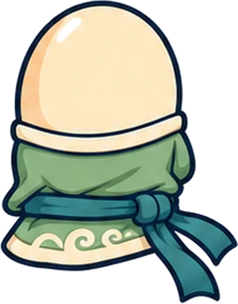
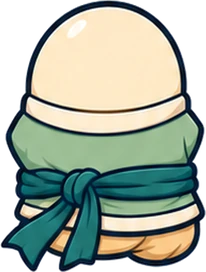
The Monk redesigned: round bean, proper arms, open guard (#598)
The owner's redrawn Monk (sheets MK-a, MK-b and MK-c) replaces the first
design's files one for one: the portrait, the six rig parts and the 18
animation parts. Cut as the first Monk was (no sticker border, 6 px per game
unit, feet on the ground at y = 15, the hero 53 units tall).

Everything is re-measured for the new shape: PLACED.monk, SHOULDER.monk,
OFF_SHOULDER.monk (now the back arm's own shoulder) and the ANIM_ART entry,
with the off-hand follow-through drawn at 0.82 (it was painted larger than
the rest of the sheet). The life-skill arms hang from the new shoulders and
the sleeve colour matches the new jacket.

Drawing fixes for the new open guard:
- the glove shows only when monk gloves are worn; without them the back hand
  is the bare painted hand, and it throws its own cross;
- through the coil the rig's own glove arm draws back to the hip (the
  painted wind-up sat hidden behind the round body);
- the palm swings across and is driven out over the knuckled arm, whose fist
  is chambered at the hip meanwhile, so the glove no longer lands on the
  knuckles at the end of the strike;
- the back view's feet stand as wide apart as the front view's (backFeet).

Claude-Session: https://claude.ai/code/session_019kevwHHi9fDprq4oAiuq6N

diff --git a/src/render/heroRig.js b/src/render/heroRig.js
@@ -13,8 +13,10 @@ export const HERO_RIG_CLASSES = ['swordsman', 'rogue', 'samurai', 'corsair', 'pa
 // arm as [shoulder x, y, w, h, pivot x, y], turning about its shoulder (the
 // pivot inside the picture). All in game units, feet on the ground at y = 15.
 const PLACED = {
-  monk: { body: [-19.3, -38, 38.6, 47.4], left: [-20.9, 2.2, 10.3, 12.8], right: [-0.8, 1.7, 10.9, 13.3],
-    sword: [10.1, -12.8, 15.3, 17.8, 3.2, 14.2], back: [-17.5, -13.6, 15.9, 15.8, 12.7, 12.2], strike: [9.9, -12.8, 21.3, 9.3, 3.5, 4.9] },
+  // (Redrawn on sheet MK-a: a round bean with its arms on its sides, the
+  // knuckled fist forward at the waist and the gloved palm out at the hip.)
+  monk: { body: [-19, -38, 38.1, 46], left: [-17.5, 1.2, 12.6, 13.8], right: [4.4, 1.2, 13, 13.8],
+    sword: [12.4, -10.8, 20.7, 15.3, 3.4, 4.8], back: [-10.1, -10.8, 23.7, 15, 19.6, 6.8], strike: [13.5, -12.2, 23.2, 10.4, 3.8, 4.3] },
 };
 // Heavier weapons commit later; spears extend forward and whips sweep wider.
 const ATTACKS = {
@@ -43,9 +45,9 @@ const GRIP = {
 };
 // Where the weapon arm's shoulder is (the painted attack arms hang from it),
 // and the off hand's for the dual wielders' second set.
-const SHOULDER = { rogue: [15, -8], brawler: [14, -9], monk: [10.1, -12.8] };
-// (The Monk's palm strikes from nearer the middle, so the thrust carries past the body.)
-const OFF_SHOULDER = { corsair: [-9, -10], rogue: [-11, -9], monk: [-8, -8] };
+const SHOULDER = { rogue: [15, -8], brawler: [14, -9], monk: [12.4, -10.8] };
+// (The Monk's palm strikes from its own back shoulder, so the thrust carries across the body.)
+const OFF_SHOULDER = { corsair: [-9, -10], rogue: [-11, -9], monk: [-10.1, -10.8] };
 const images = new Map();
 // Limb angles and reach ease across a restarted swing (see poseBlend.js).
 const blendRig = poseBlender();
@@ -210,7 +212,14 @@ export function drawHeroRig(ctx, opts = {}) {
   const mk = combat && !anim.trail ? 'flourish' : 'melee';
   // A two-handed grip keeps the turning arm, so the back hand stays on the handle.
   const frame = combat && !grip && opts.hasWeapon !== false && hasSwingArt(classId) ? swingPhase(anim.ch, 'main', mk) : null;
-  const offFrame = combat && OFF_SHOULDER[classId] && (classId !== 'corsair' || corsairPair) && hasSwingArt(classId, 'off') ? swingPhase(anim.ch, 'off') : null;
+  // The Monk's back hand wears its glove only when monk gloves are worn (the
+  // renderer says so; the title's and the reflection's heroes keep the glove).
+  const monk = classId === 'monk';
+  const bareBack = monk && opts.dualWield === false && opts.hasShield === false;
+  let offFrame = combat && OFF_SHOULDER[classId] && (classId !== 'corsair' || corsairPair) && !bareBack && hasSwingArt(classId, 'off') ? swingPhase(anim.ch, 'off') : null;
+  // The Monk's painted palm wind-up hides behind the body, so through the
+  // coil its own rig arm draws the glove back beside the hip instead.
+  if (monk && offFrame === 'wind') offFrame = null;
   // Either side of its painted pictures (a clip's arc) an arm rests in the
   // rig's own guard, never a half-faded extended drawing as it comes back.
   if (combat && !grip && anim.ch.paint) {
@@ -224,11 +233,19 @@ export function drawHeroRig(ctx, opts = {}) {
   if (anim && !backFront) drawHeroArm(ctx, anim, 'back', -11 + pose.breathe);
   // A painted off arm (the Corsair's second scimitar, the Rogue's second
   // dagger) stays behind the body, clear of the face, except while it cuts.
-  // The Monk's gloved palm has no blade to keep clear of the face: it is held
-  // up before the chest and driven out in front of the body the whole way.
-  const offFront = !!offFrame && (classId === 'monk' || offArmInFront(anim.ch));
-  // Its thrust passes in front of the raised fist too.
-  const offLast = offFront && classId === 'monk' && offArmInFront(anim.ch);
+  // The Monk's gloved palm has no blade to keep clear of the face: it swings
+  // across the front of the body and is driven out in front of it.
+  const offFront = !!offFrame && (monk || offArmInFront(anim.ch));
+  // It passes in front of the knuckled arm too, whose fist is pulled down to
+  // the hip meanwhile (chambered) and comes back up only once the palm has
+  // drawn back, so the glove never lands on the knuckles.
+  const offLast = offFront && monk;
+  const arc2 = monk && combat && !bareBack ? anim.ch.arc2 || 0 : 0;
+  const chamber = arc2 > 1 ? (arc2 <= 3.2 ? smoothstep(arc2 - 1) : 1 - smoothstep((arc2 - 3.2) / 0.4)) : 0;
+  // A bare back hand hangs out at the side, coils back and, on its cross,
+  // punches forward over the body.
+  const bareCross = bareBack && combat && (anim.ch.strike2 || 0) > 0.3;
+  const bareArm = () => faded(ctx, arms, () => drawEmptyArm(ctx, classId, placed.back[0], placed.back[1] + pose.breathe, -1.15 - pose.back * 1.6 - pose.step * 0.3, 13));
   const offArm = () => drawSwingArm(ctx, classId, anim, 'off', 'melee', osh[0] + (pose.reach2 || 0) * 0.4, osh[1] + pose.breathe, arms);
   if (offFrame && !offFront) offArm();
   else if (offFrame) { /* drawn over the body, below */ }
@@ -240,8 +257,10 @@ export function drawHeroRig(ctx, opts = {}) {
     drawIf('sword', -9, -10 + pose.breathe, 21, 38, -pose.back * 0.8 - 0.55, 21 * 0.83, 38 * 0.88, (1 - shown2) * arms);
     drawIf('strike', -7 + (pose.reach2 || 0), -12 + pose.breathe, 37, 13, (-pose.back - 1.5) * 0.25, 4, 5, shown2 * arms);
   }
+  // A bare back hand out at the side (over the body on its cross, below).
+  else if (bareBack) { if (!bareCross) bareArm(); }
   // A placed rig's back arm turns about its own shoulder, behind the body (the
-  // Monk's glove is raised beside the head, so it coils outward, not over it).
+  // Monk's glove, held out at the hip, coils back and down beside it).
   else if (placed) { const b = placed.back; draw('back', b[0], b[1] + pose.breathe, b[2], b[3], -pose.back, b[4], b[5], arms); }
   // The Ninja and Merchant are slimmer, so their back hand sits closer in, half behind the body.
   // On a two-handed grip the back hand is on the handle instead (drawn below).
@@ -252,6 +271,7 @@ export function drawHeroRig(ctx, opts = {}) {
   // The Rogue's and the Brawler's back hands hold their own dagger and claw,
   // in front of the tunic; on an off-hand strike that arm swaps for its
   // extended drawing, lunging forward across the body.
+  if (bareCross) bareArm();
   if (offFront && !offLast) offArm();
   else if (rogue && !offFrame) {
     draw('back', -14, -9 + pose.breathe, 22, 18, pose.back, 18, 3, (1 - shown2) * arms);
@@ -277,7 +297,7 @@ export function drawHeroRig(ctx, opts = {}) {
     draw('strike', 14 + pose.reach, -9 + pose.breathe, 27, 12, 0, 4, 4, shown * arms);
   } else if (placed) {
     const a = placed.sword, k = placed.strike;
-    draw('sword', a[0], a[1] + pose.breathe, a[2], a[3], pose.sword, a[4], a[5], (1 - shown) * arms);
+    draw('sword', a[0], a[1] + pose.breathe, a[2], a[3], pose.sword + chamber * 0.9, a[4], a[5], (1 - shown) * arms);
     draw('strike', k[0] + reach, k[1] + pose.breathe, k[2], k[3], (pose.sword - 0.8) * 0.3, k[4], k[5], shown * arms);
   } else {
     draw('sword', 11, y, w, h, sa, spx, spy, (1 - shown) * arms);
@@ -288,6 +308,9 @@ export function drawHeroRig(ctx, opts = {}) {
   return true;
 }
 
+/** fn() drawn at opacity a (on top of the canvas's own). */
+function faded(ctx, a, fn) { ctx.save(); ctx.globalAlpha *= a; const r = fn(); ctx.restore(); return r; }
+const smoothstep = (x) => { x = Math.max(0, Math.min(1, x)); return x * x * (3 - 2 * x); };
 /** Where a point (fx, fy across a picture) lands once the picture is drawn at
  *  x, y, w x h, turned by angle about its pivot px, py. */
 function partPoint(fx, fy, [x, y, w, h, angle, px, py]) {

diff --git a/src/render/heroAnimArt.js b/src/render/heroAnimArt.js
@@ -14,7 +14,9 @@
 // the shoulder (the pivot) inside it; a back-view part is [x, y, w, h] from
 // the hero's feet (the off arm, which hangs from its shoulder, is [shoulder
 // x, y, w, h, then the shoulder and the fist in the picture]); a hand is
-// [w, h, shoulder x, y, fist x, y].
+// [w, h, shoulder x, y, fist x, y]. A class may say where its back view's
+// feet stand (`backFeet`: [left x, right x, width]); otherwise they sit where
+// most heroes' do.
 // Without Image (headless tests) nothing loads and every helper returns
 // false or null, so the rigs draw exactly as before; a set is only used once
 // all of its pictures have loaded, never half assembled. Each is drawn with
@@ -44,8 +46,8 @@ export const ANIM_ART = {
   sorcerer: { faces: ['body', 'hurt', 'blink', 'victory'], swing: { wind: [28, 31, 4.5, 26.7], mid: [36.3, 25.3, 4.2, 19.6], follow: [41.5, 19.3, 4.4, 13.1] }, back: { body: [-16.8, -36.6, 33.3, 39.8], other: [-13.9, -35.2, 22, 19.2, 2.3, 3.3, 17.7, 12.2], arm: [0.5, -39.8, 22.2, 40.7], strike: [-18, -43.4, 36, 30.7] }, hand: [11.7, 11.8, 1.7, 1.7, 8.9, 10] },
   pistoler: { faces: ['body', 'hurt', 'blink', 'victory'], swing: { wind: [19.3, 19.8, 2.9, 16.9], mid: [24.5, 12.5, 2.5, 9.2], follow: [24.5, 17, 2.8, 13.8] }, back: { body: [-11.7, -37.6, 23.2, 43.2], arm: [-8.3, -25.9, 25, 31.2], strike: [-35.3, -11.9, 35.3, 18.5] }, hand: [10.3, 12.5, 2, 1.5, 7.9, 10.8] },
   sniper: { faces: ['body', 'hurt', 'blink', 'victory'], swing: { wind: [31.5, 26.7, 3.8, 21.8], mid: [34.8, 14.3, 4.1, 9.1], follow: [36.5, 24.5, 4.3, 19] }, back: { body: [-11.9, -37.6, 23.7, 43.2], other: [-3.3, -10.5, 18.3, 14.3, 1.7, 4.1, 16, 7.7], arm: [-29.5, -21.2, 36.7, 18], strike: [-37, -21.2, 45, 18] }, hand: [10.8, 12.3, 1.9, 1.6, 8.3, 10.6] },
-  // The Monk, Priest and Zealot (art pack 2-New-Classes, sheets H7b/H7c, H8b and H9b).
-  monk: { faces: ['body', 'hurt', 'blink', 'victory'], swing: { wind: [16.4, 14.3, 4.1, 3.3], mid: [19.9, 11.7, 3.4, 7.4], follow: [21.6, 8.8, 3.6, 4.8] }, off: { wind: [16.4, 15.5, 3.8, 3.6], mid: [20, 13.8, 3.4, 8.3], follow: [24.4, 14.4, 4.1, 9.6] }, back: { body: [-19.9, -41.5, 39.7, 50.6], other: [-17.5, -13.6, 20, 18.3, 15.3, 4.1, 4.4, 13.8], arm: [9.2, -26.7, 15.3, 15.7], strike: [8.8, -19.3, 18.2, 11.3] }, hand: [18.7, 11.8, 3, 6.5, 15.4, 4.6] },
+  // The Monk (redrawn, sheets MK-b and MK-c), Priest and Zealot (art pack 2-New-Classes, sheets H8b and H9b).
+  monk: { faces: ['body', 'hurt', 'blink', 'victory'], swing: { wind: [14.2, 13.9, 4, 3.2], mid: [17.9, 11.6, 2.9, 4.4], follow: [23.3, 13.9, 3.9, 4.6] }, off: { wind: [18.5, 17, 3.9, 3.6], mid: [22.4, 15.7, 3.7, 8], follow: [31, 13, 5.2, 7.4] }, back: { body: [-17.2, -37.7, 34.4, 45.4], other: [-14.4, -14.3, 17.5, 19.5, 13.4, 4, 4.7, 15.2], arm: [9.6, -16.5, 17.9, 13], strike: [8.8, -19.8, 23.6, 12.7] }, backFeet: [-16.8, 4.3, 13], hand: [19, 14.6, 3.7, 3.6, 15.7, 8.7] },
   priest: { faces: ['body', 'hurt', 'blink', 'victory'], swing: { wind: [18.6, 24.5, 3.2, 17.3], mid: [19.7, 21.2, 3.3, 13], follow: [22.7, 19.7, 3.8, 10] }, back: { body: [-19.2, -39.7, 38.4, 49.9], other: [-9.4, -8, 15.7, 17.7, 12.2, 3.3, 3.7, 12.4], arm: [10.5, -26.7, 16.1, 18.1], strike: [10.7, -25.1, 19.9, 17.8] }, hand: [18, 16, 3.1, 6.8, 14.8, 3] },
   zealot: { faces: ['body', 'hurt', 'blink', 'victory'], swing: { wind: [19.6, 16.9, 3.2, 10.2], mid: [21.4, 18.3, 3.5, 6], follow: [24.2, 10.5, 4, 5.9] }, back: { body: [-16.9, -41.4, 33.9, 51.4], other: [-9.9, -8.6, 14.4, 18.4, 10.8, 3.6, 3.5, 14.8], arm: [11.5, -22, 20.8, 22.8], strike: [11.4, -14.9, 22.6, 9] }, hand: [17.1, 15.3, 3.4, 10.5, 14.1, 4.2] },
 };
@@ -220,7 +222,8 @@ const wrap = (a) => a - Math.PI * 2 * Math.round(a / (Math.PI * 2));
 // The wind-ups are painted raised over the head, so they are tipped forward too:
 // the guard and fist sit above the hat or hood rather than over the eyes.
 const CLEAR = { corsair: { wind: 0.5, mid: 0.35 }, rogue: { wind: 0.55, mid: 0.15 } };
-const CLEAR_OFF = { corsair: { mid: 0.2 } };
+// (The Monk's palm, fingers up, dips a little below the cheek as it crosses the chest.)
+const CLEAR_OFF = { corsair: { mid: 0.2 }, monk: { mid: -0.2 } };
 /** The direction the weapon points at picture-walk position a (1..3). */
 function arcDir(g, a) {
   const k = Math.max(1, Math.min(3, a)) - 1, i = Math.min(1, Math.floor(k));
@@ -356,6 +359,8 @@ export function hasSwingArt(classId, hand = 'main') {
 }
 
 // ---------------- Back view ----------------
+// Where most heroes' back-view feet stand: [left x, right x, width].
+const BACK_FEET = [-10, 1, 12];
 /** Is the hero facing up the screen (away from the camera)? */
 export function facingAway(opts = {}) {
   const f = opts.facing;
@@ -381,13 +386,15 @@ export function drawHeroBack(ctx, opts = {}) {
   const step = Math.sin((g.phase || 0) * Math.PI) * move;
   const ch = anim?.ch;
   const breathe = Math.sin((opts.time || 0) * 0.0032) * 0.35 * (1 - move) + (ch?.crouch || 0);
-  // Feet where the front view has them, the soles showing as each lifts.
+  // Feet where the front view has them, the soles showing as each lifts
+  // (a wide stance, the Monk's, says where: [left x, right x, width]).
+  const [flx, frx, fw] = a.backFeet || BACK_FEET;
   const foot = (img, x, lift) => {
-    const w = 12, h = w * img.naturalHeight / img.naturalWidth;
+    const w = fw, h = w * img.naturalHeight / img.naturalWidth;
     ctx.drawImage(heroLit(img), x, 15 - h - lift, w, h);
   };
-  foot(footL, -10 - step * 1.5, Math.max(0, step) * 3 + (ch?.liftB || 0));
-  foot(footR, 1 + step * 1.5, Math.max(0, -step) * 3 + (ch?.liftF || 0));
+  foot(footL, flx - step * 1.5, Math.max(0, step) * 3 + (ch?.liftB || 0));
+  foot(footR, frx + step * 1.5, Math.max(0, -step) * 3 + (ch?.liftF || 0));
   const put = (img, r, dy = 0) => ctx.drawImage(heroLit(img), r[0], r[1] + breathe + dy, r[2], r[3]);
   put(body, b.body);
   if (other) {

diff --git a/src/render/heroanim.js b/src/render/heroanim.js
@@ -1191,7 +1191,7 @@ const SLEEVE = {
   swordsman: '#b8c4d0', rogue: '#2f4a4a', samurai: '#c0392b', corsair: '#3a3340', paladin: '#e8dfc8', knight: '#aab6c2',
   berserker: '#e9d6b0', juggernaut: '#6f7884', gladiator: '#c08a3a', lancer: '#2f5fb3', brawler: '#f2efe6', halberdier: '#c7cfd8',
   dancer: '#f4a7c4', merchant: '#7a2f4a', ninja: '#2b3a5a', archer: '#4f7a3a', ranger: '#4f7a3a', wizard: '#4b2a7a',
-  sorcerer: '#5b3a8c', pistoler: '#2f5a5a', sniper: '#2f5a5a', monk: '#8cc7a1',
+  sorcerer: '#5b3a8c', pistoler: '#2f5a5a', sniper: '#2f5a5a', monk: '#98b892',
   priest: '#fbf6ea', zealot: '#d9482b',
 };
 // Where the hand grips each tool's sticker (0..1 across the picture), which
@@ -1315,7 +1315,8 @@ function star(c, x, y, r, k) {
 // from the usual shoulders sat inside the chest and vanished into it, leaving
 // two empty sleeves. His hang from the sleeve ends instead, and the back one is
 // drawn over the body, as his own rig arms are (see armInFront).
-const SKILL_SHOULDER = { brawler: [13, -13, -1], monk: [13, -13, -1] };
+// (The redrawn Monk's arms hang from the sides of its round bean.)
+const SKILL_SHOULDER = { brawler: [13, -13, -1], monk: [13, -15, 0] };
 /** Whether a class's back life-skill arm is drawn over its body, not behind it. */
 export const armInFront = (jobClass) => !!SKILL_SHOULDER[jobClass];
 /** The life-skill arms for a painted rig: the back one before the body (after
